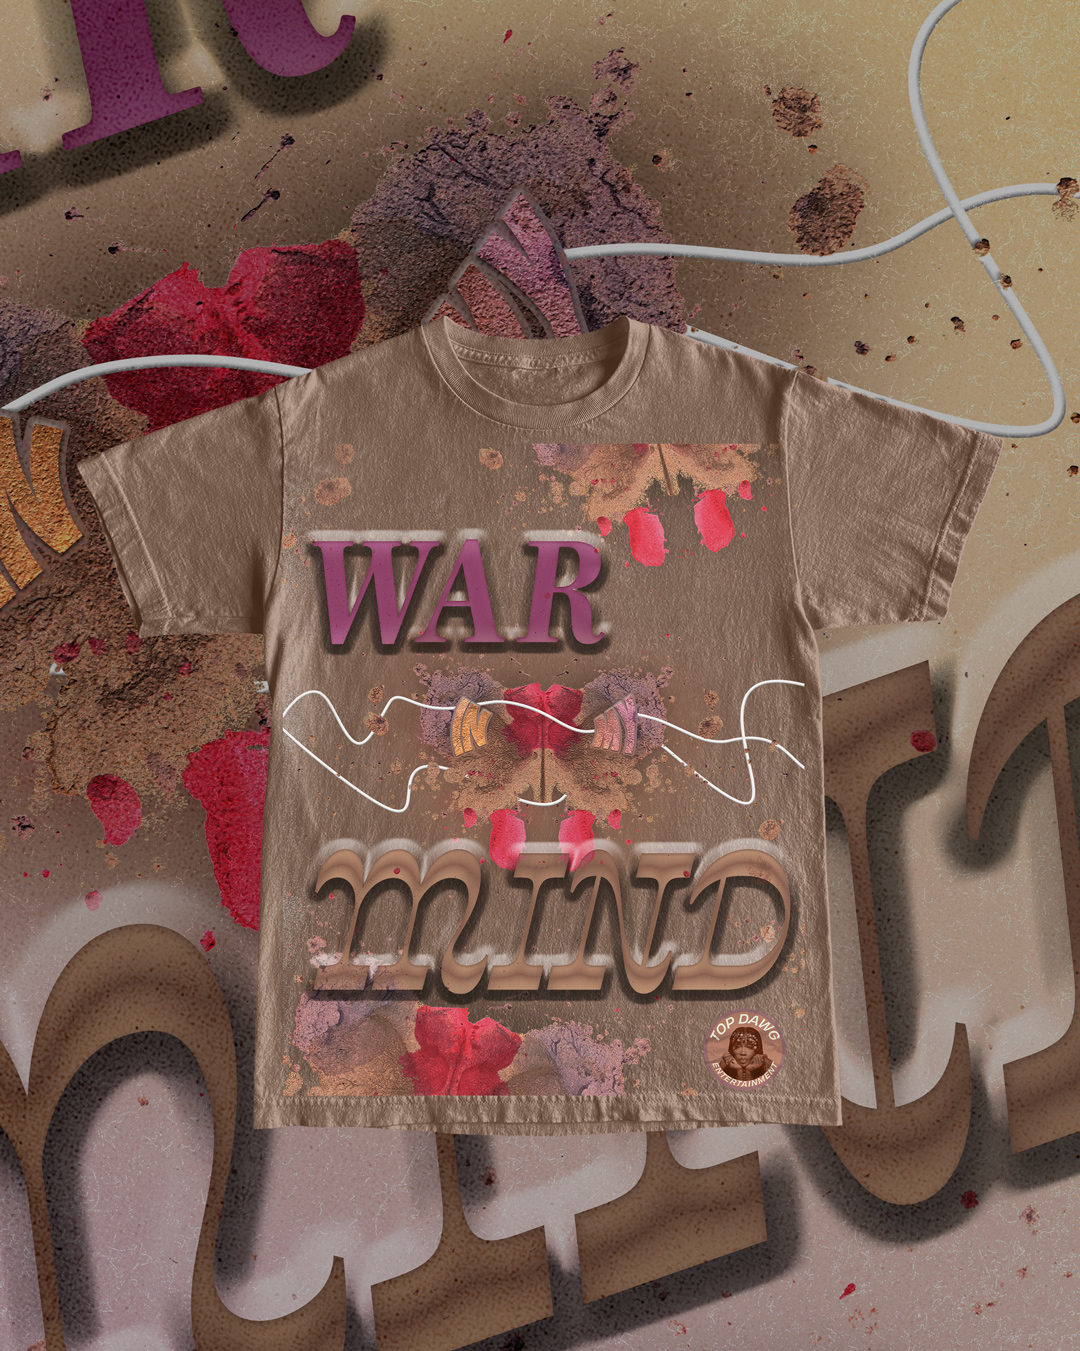
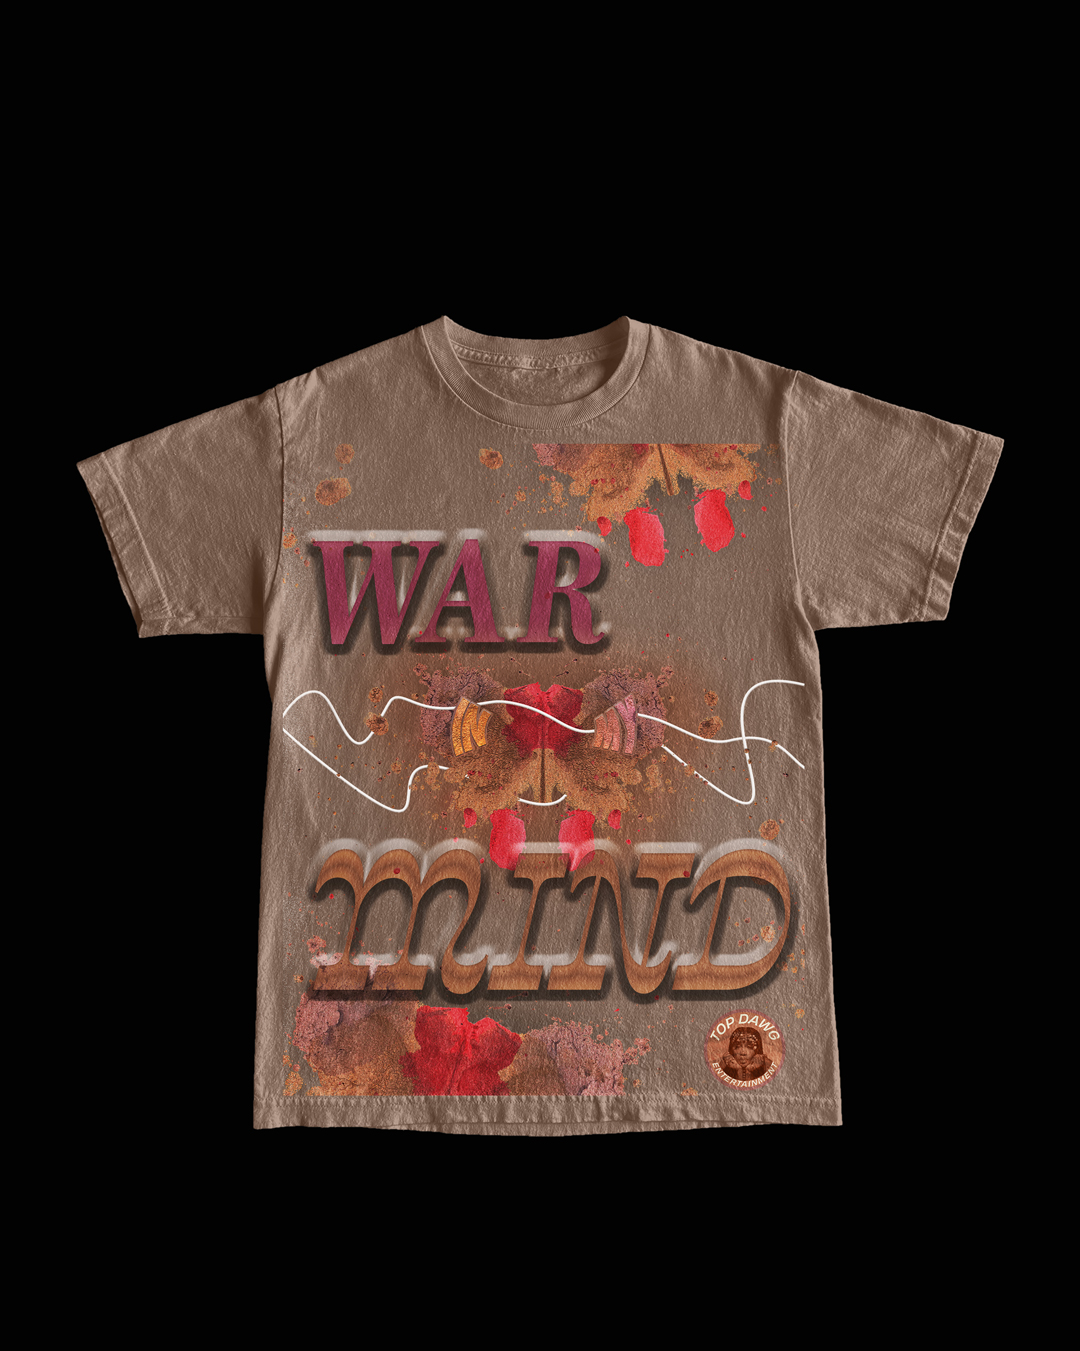
Add apparel page

diff --git a/apparel/index.html b/apparel/index.html
@@ -1,0 +1,139 @@
+<!DOCTYPE html>
+<html lang="en">
+
+<head>
+  <!-- Global site tag (gtag.js) - Google Analytics -->
+  <script async src="https://www.googletagmanager.com/gtag/js?id=UA-125467023-1"></script>
+  <script>
+    window.dataLayer = window.dataLayer || [];
+    function gtag() {
+      dataLayer.push(arguments);
+    }
+    gtag('js', new Date());
+    gtag('config', 'UA-125467023-1');
+  </script>
+  <!-- Required meta tags -->
+  <meta charset="utf-8" />
+  <meta name="viewport" content="width=device-width, initial-scale=1, shrink-to-fit=no" />
+  <meta name="author" content="Anthony Freay" />
+  <meta name="description" content="Landscapes shot by Anthony Freay" />
+  <meta name="keywords" content="cityscapes,photo,photographer,cityscape,New York,Philly,Anthony,Freay" />
+  <meta name="theme-color" content="#121212" />
+  <meta name="p:domain_verify" content="1b0348fae29c48f2cb52dbcc75905d1d" />
+
+  <!-- Bootstrap CSS -->
+  <link rel="stylesheet" href="https://stackpath.bootstrapcdn.com/bootstrap/4.3.1/css/bootstrap.min.css"
+    integrity="sha384-ggOyR0iXCbMQv3Xipma34MD+dH/1fQ784/j6cY/iJTQUOhcWr7x9JvoRxT2MZw1T" crossorigin="anonymous" />
+
+  <!-- adobe font -->
+  <link rel="stylesheet" href="https://use.typekit.net/waf4zxp.css" />
+
+  <!-- myCSS -->
+  <link href="/stylesheets/galleryStyle2.css" rel="stylesheet" type="text/css" />
+
+  <title>apparel | Anthony Freay</title>
+
+  <!-- fav icon -->
+  <link rel="apple-touch-icon" sizes="180x180" href="/img/apple-touch-icon.png" />
+  <link rel="icon" type="image/png" sizes="32x32" href="/img/favicon-32x32.png" />
+  <link rel="icon" type="image/png" sizes="16x16" href="/img/favicon-16x16.png" />
+  <link rel="manifest" href="/site.webmanifest" />
+
+  <!-- font awesome -->
+  <link rel="stylesheet" href="https://use.fontawesome.com/releases/v5.15.1/css/all.css" integrity="sha384-vp86vTRFVJgpjF9jiIGPEEqYqlDwgyBgEF109VFjmqGmIY/Y4HV4d3Gp2irVfcrp" crossorigin="anonymous">
+  <script src="https://kit.fontawesome.com/6b0d6638a6.js" crossorigin="anonymous"></script>
+</head>
+
+<body>
+  <nav class="navbar sticky-top navbar-expand-xl navbar-dark" id="navbar">
+    <a class="navbar-brand" href="/">Anthony Freay</a>
+    <button class="navbar-toggler" type="button" data-toggle="collapse" data-target="#navbarNavDropdown"
+      aria-controls="navbarNavDropdown" aria-expanded="false" aria-label="Toggle navigation">
+      <span class="navbar-toggler-icon"></span>
+    </button>
+    <div class="collapse navbar-collapse" id="navbarNavDropdown">
+      <ul class="navbar-nav">
+        <li class="nav-item">
+          <a class="nav-link" id="alt-page" href="/live">live</a>
+        </li>
+
+        <li class="nav-item">
+          <a class="nav-link" id="alt-page" href="/portraits">portraits</a>
+        </li>
+
+        <li class="nav-item">
+          <a class="nav-link" id="alt-page" href="/bw">black & white</a>
+        </li>
+
+        <li class="nav-item">
+            <a class="nav-link" id="alt-page" href="/posters">posters</a>
+        </li>
+
+        <li class="nav-item">
+          <a class="nav-link" id="current-page" href="/apparel">apparel</a>
+      </li>
+
+        <li class="nav-item">
+          <a class="nav-link" id="alt-page" href="/about-contact">about/contact</a>
+        </li>
+      </ul>
+    </div>
+  </nav>
+
+  <div class="container">
+
+    <div class="column">
+      <img src="lost-kids_TSHIRT_MOCKUP.jpg" style="width:100%">
+    </div>
+    <div class="column">
+      <img src="GOLDEN_TSHIRT_MOCKUP.jpg" style="width:100%">
+    </div>
+    <div class="column">
+        <img src="WAR-IN-My-MIND_TSHIRT_MOCKUP.jpg" style="width:100%">
+    </div>
+    <div class="column">
+      <img src="FUN-GIRL_TSHIRT_MOCKUP.jpg" style="width:100%">
+    </div>
+    
+  </div>
+
+  <div class="footer">
+    <div>&nbsp</div>
+    <div class="next-gallery">
+      <a href="/live">Next: live</a>
+    </div>
+
+    <div class="links">
+      <a href="https://twitter.com/anthonyfreay">
+        <i class="fab fa-twitter"></i>
+      </a>
+      <a href="https://www.instagram.com/anthonyfreay">
+        <i class="fab fa-instagram"></i>
+      </a>
+      <a href="https://www.linkedin.com/in/anthonyfreay">
+        <i class="fab fa-linkedin"></i>
+      </a>
+      <a href="mailto:anthonyfreay@gmail.com">
+        <i class="fas fa-envelope"></i>
+      </a>
+    </div>
+
+    <div class="copyright">copyright © all rights reserved.</div>
+</div>
+
+  <!-- Optional JavaScript -->
+  <!-- jQuery first, then Popper.js, then Bootstrap JS -->
+  <script src="https://code.jquery.com/jquery-3.3.1.slim.min.js"
+    integrity="sha384-q8i/X+965DzO0rT7abK41JStQIAqVgRVzpbzo5smXKp4YfRvH+8abtTE1Pi6jizo"
+    crossorigin="anonymous"></script>
+  <script src="https://cdnjs.cloudflare.com/ajax/libs/popper.js/1.14.7/umd/popper.min.js"
+    integrity="sha384-UO2eT0CpHqdSJQ6hJty5KVphtPhzWj9WO1clHTMGa3JDZwrnQq4sF86dIHNDz0W1"
+    crossorigin="anonymous"></script>
+  <script src="https://stackpath.bootstrapcdn.com/bootstrap/4.3.1/js/bootstrap.min.js"
+    integrity="sha384-JjSmVgyd0p3pXB1rRibZUAYoIIy6OrQ6VrjIEaFf/nJGzIxFDsf4x0xIM+B07jRM"
+    crossorigin="anonymous"></script>
+  <script src="/script.js"></script>
+
+</body>
+
+</html>
